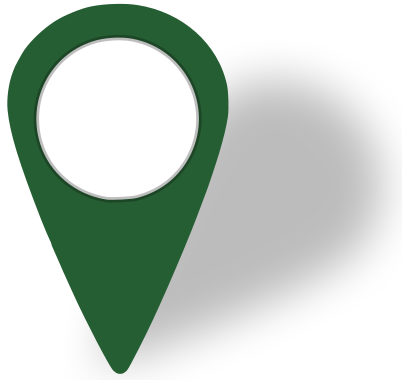
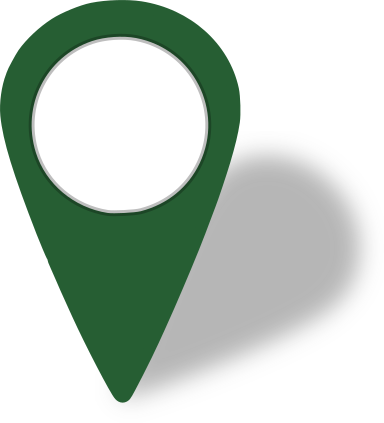
Add marker bounce on mouseover event
Added SmoothMarkerBouncing library for mouse over event.

diff --git a/dev.html b/dev.html
@@ -24,18 +24,14 @@
     <!-- Theme CSS -->
     <link href="css/agency.min.css" rel="stylesheet">
 	
-	<!-- Mapbox GL JS -->
-	<script src='https://api.mapbox.com/mapbox-gl-js/v1.11.0/mapbox-gl.js'></script>
-	<link href='https://api.mapbox.com/mapbox-gl-js/v1.11.0/mapbox-gl.css' rel='stylesheet' />
-	<script src='https://api.mapbox.com/mapbox.js/plugins/turf/v3.0.11/turf.min.js'></script>
-
-    <!-- Leaflet JS -->
+	<!-- Leaflet JS -->
     <link rel="stylesheet" href="https://unpkg.com/leaflet@1.9.4/dist/leaflet.css"
      integrity="sha256-p4NxAoJBhIIN+hmNHrzRCf9tD/miZyoHS5obTRR9BMY="
      crossorigin=""/>
     <script src="https://unpkg.com/leaflet@1.9.4/dist/leaflet.js"
     integrity="sha256-20nQCchB9co0qIjJZRGuk2/Z9VM+kNiyxNV1lvTlZBo="
     crossorigin=""></script>
+    <script type="text/javascript" src="https://cdn.jsdelivr.net/gh/hosuaby/Leaflet.SmoothMarkerBouncing@v3.0.3/dist/bundle.js" crossorigin="anonymous"></script>
 
     <!-- HTML5 Shim and Respond.js IE8 support of HTML5 elements and media queries -->
     <!-- WARNING: Respond.js doesn't work if you view the page via file:// -->
@@ -181,7 +177,7 @@
                             
                             }).addTo(map);
 
-                            // add projects to map
+                            // define projects                            
                             var projects = {
                                 "type":"FeatureCollection",
                                 "name":"projloc",
@@ -369,13 +365,16 @@
                                         }
                                     }
                                 ]
-                            }
+                            } 
                             
                             // set marker style
                             var lpgIcon = L.icon({
                                 iconUrl: 'img/lpgicon.png',
-                                iconSize: [50,50],
-                                iconAnchor: [18,50]
+                                shadowUrl: 'img/lpgicon_shadow.png',
+                                iconSize: [34,51],
+                                shadowSize: [29,29],
+                                iconAnchor: [17,51],
+                                shadowAnchor: [0,29]
 
                             });
 
@@ -388,24 +387,44 @@
                                         "<tr><h6>"+feature.properties.time+"</h6></tr>"+
                                     "</table>";
                                     //"<tr>"+feature.properties.img+"</tr></table>"
-                                layer.bindPopup(popupContent).on("click", clickZoom);                                
-                                }    
+                                layer.bindPopup(popupContent);
+                                layer.on({
+                                    click: pan,
+                                    mouseover: bounce
+                                });                               
+                            }    
                                
                             // set center map on click
-                            function clickZoom(e) {                               
-                                map.panTo(e.target.getLatLng())
+                            function pan(e) {                               
+                                map.panTo(e.target.getLatLng());
                                 // setView version with zoom
-                                //map.setView(e.target.getLatLng(), 2);                                
-                            }                            
+                                //map.setView(e.target.getLatLng(), 2);
+                                                              
+                            }
+
+                            // set marker bounce
+                            function bounce(e) {
+                                e.target.bounce(1)
+                            }                                                       
+                                               
                             // create features    
                             feat = L.geoJSON(projects, {
+                                onEachFeature: forEachFeature,
                                 pointToLayer: function(feature,latlng){                                    
-                                    return L.marker(latlng,{icon: lpgIcon});},
-                                onEachFeature: forEachFeature                    
+                                    var featMarker = L.marker(latlng,{icon: lpgIcon});
+                                    feature.marker = featMarker;
+                                    return featMarker;
+                                    }
+                            });
 
-                            })
-                            
+                            // fit bounds for setting initial zoom level across different devices
+                            map.fitBounds(feat.getBounds());
+
                             feat.addTo(map);
+
+                          
+                            
+                            
                         </script> 
 
 
@@ -503,9 +522,10 @@
     <script src="vendor/bootstrap/js/bootstrap.min.js"></script>
 
     <!-- Plugin JavaScript -->
-    <script src="http://cdnjs.cloudflare.com/ajax/libs/jquery-easing/1.3/jquery.easing.min.js"></script>
+    <script src="https://cdnjs.cloudflare.com/ajax/libs/jquery-easing/1.3/jquery.easing.min.js"></script>
 	<script src="https://cdn.jsdelivr.net/parallax.js/1.4.2/parallax.min.js"></script>
 	<script src="vendor/scrollreveal/scrollreveal.min.js"></script>
+    
 	
     <!-- Contact Form JavaScript -->
     <script src="js/jqBootstrapValidation.js"></script>

diff --git a/index.html b/index.html
@@ -24,13 +24,14 @@
     <!-- Theme CSS -->
     <link href="css/agency.min.css" rel="stylesheet">
 	
-	    <!-- Leaflet JS -->
+	<!-- Leaflet JS -->
     <link rel="stylesheet" href="https://unpkg.com/leaflet@1.9.4/dist/leaflet.css"
      integrity="sha256-p4NxAoJBhIIN+hmNHrzRCf9tD/miZyoHS5obTRR9BMY="
      crossorigin=""/>
     <script src="https://unpkg.com/leaflet@1.9.4/dist/leaflet.js"
     integrity="sha256-20nQCchB9co0qIjJZRGuk2/Z9VM+kNiyxNV1lvTlZBo="
     crossorigin=""></script>
+    <script type="text/javascript" src="https://cdn.jsdelivr.net/gh/hosuaby/Leaflet.SmoothMarkerBouncing@v3.0.3/dist/bundle.js" crossorigin="anonymous"></script>
 
     <!-- HTML5 Shim and Respond.js IE8 support of HTML5 elements and media queries -->
     <!-- WARNING: Respond.js doesn't work if you view the page via file:// -->
@@ -176,7 +177,7 @@
                             
                             }).addTo(map);
 
-                            // add projects to map
+                            // define projects                            
                             var projects = {
                                 "type":"FeatureCollection",
                                 "name":"projloc",
@@ -364,13 +365,16 @@
                                         }
                                     }
                                 ]
-                            }
+                            } 
                             
                             // set marker style
                             var lpgIcon = L.icon({
                                 iconUrl: 'img/lpgicon.png',
-                                iconSize: [50,50],
-                                iconAnchor: [18,50]
+                                shadowUrl: 'img/lpgicon_shadow.png',
+                                iconSize: [34,51],
+                                shadowSize: [29,29],
+                                iconAnchor: [17,51],
+                                shadowAnchor: [0,29]
 
                             });
 
@@ -383,25 +387,43 @@
                                         "<tr><h6>"+feature.properties.time+"</h6></tr>"+
                                     "</table>";
                                     //"<tr>"+feature.properties.img+"</tr></table>"
-                                layer.bindPopup(popupContent).on("click", clickZoom);                                
-                                }    
+                                layer.bindPopup(popupContent);
+                                layer.on({
+                                    click: pan,
+                                    mouseover: bounce
+                                });                               
+                            }    
                                
                             // set center map on click
-                            function clickZoom(e) {                               
-                                map.panTo(e.target.getLatLng())
+                            function pan(e) {                               
+                                map.panTo(e.target.getLatLng());
                                 // setView version with zoom
-                                //map.setView(e.target.getLatLng(), 2);                                
-                            }                            
+                                //map.setView(e.target.getLatLng(), 2);
+                                                              
+                            }
+
+                            // set marker bounce
+                            function bounce(e) {
+                                e.target.bounce(1)
+                            }                                                       
+                                               
                             // create features    
                             feat = L.geoJSON(projects, {
+                                onEachFeature: forEachFeature,
                                 pointToLayer: function(feature,latlng){                                    
-                                    return L.marker(latlng,{icon: lpgIcon});},
-                                onEachFeature: forEachFeature                    
+                                    var featMarker = L.marker(latlng,{icon: lpgIcon});
+                                    feature.marker = featMarker;
+                                    return featMarker;
+                                    }
+                            });
 
-                            }) 
-
+                            // fit bounds for setting initial zoom level across different devices
                             map.fitBounds(feat.getBounds());
+
                             feat.addTo(map);
+
+                          
+                            
                             
                         </script> 
 
@@ -503,6 +525,7 @@
     <script src="https://cdnjs.cloudflare.com/ajax/libs/jquery-easing/1.3/jquery.easing.min.js"></script>
 	<script src="https://cdn.jsdelivr.net/parallax.js/1.4.2/parallax.min.js"></script>
 	<script src="vendor/scrollreveal/scrollreveal.min.js"></script>
+    
 	
     <!-- Contact Form JavaScript -->
     <script src="js/jqBootstrapValidation.js"></script>
